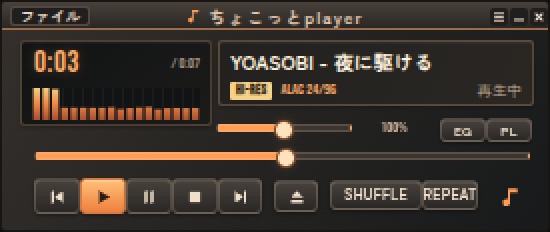
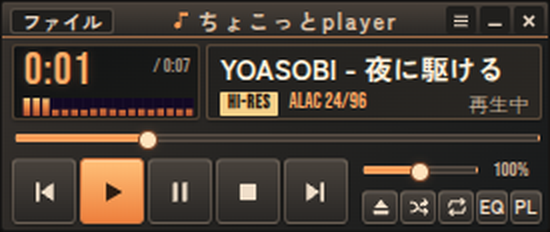
README: SHA-256 と画像を更新
Claude-Session: https://claude.ai/code/session_012ooFn2vyp5FHXT51KxN8Ji

diff --git a/README.md b/README.md
@@ -33,8 +33,8 @@
 ## ファイルの確認（SHA-256）
 
 ```
-671954ad75ec099e84f6233b1d9dfce24337a45483a45cb28b64f6852d81d56b  chokotto-player-1.1.1-setup.exe
-b10837241d3b03203f46788be642d8d5aa47448d8646b70816cc2ad30d3e1376  chokotto-player-1.1.1-portable.zip
+3305ba079233834d13492b56d60de6c92de8fd8b7ceba10ce53afba13a7b36cb  chokotto-player-1.1.1-setup.exe
+65a464e1d44c02ec768ce74956efd43e92d4c6584d00f503c31fa66334e785e1  chokotto-player-1.1.1-portable.zip
 ```
 
 PowerShell で `Get-FileHash .\ファイル名` と打つと確かめられます。
